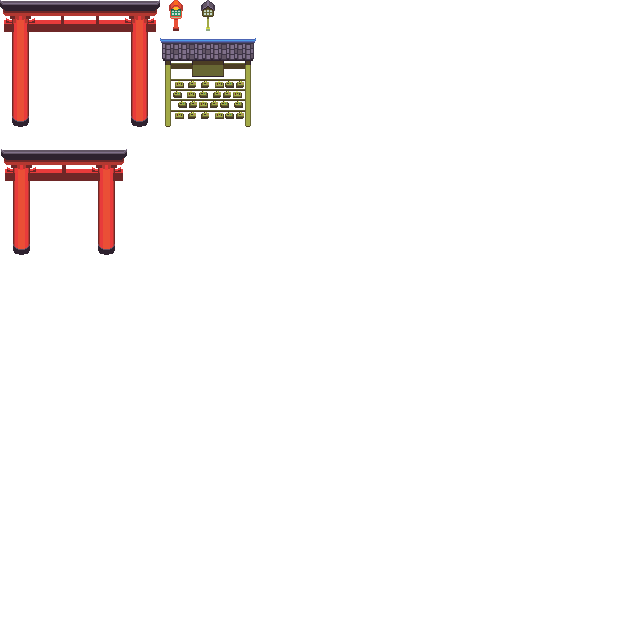
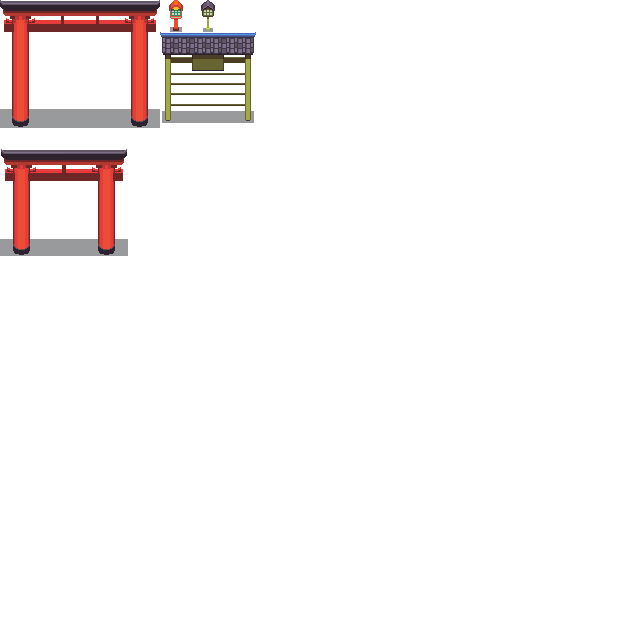
conditional spawn for charms and beehive

Changed region(s): [[0.0, 0.0312, 0.4062, 0.2188], [0.0, 0.375, 0.2188, 0.4062]]

diff --git a/lib/game/scenes/park_scene.dart b/lib/game/scenes/park_scene.dart
@@ -10,12 +10,14 @@ import 'package:gomiland/game/npcs/manuka.dart';
 import 'package:gomiland/game/npcs/mr_moon.dart';
 import 'package:gomiland/game/npcs/qian_bi.dart';
 import 'package:gomiland/game/npcs/utils.dart';
+import 'package:gomiland/game/objects/buildings/beehive.dart';
 import 'package:gomiland/game/objects/buildings/building_with_fade.dart';
 import 'package:gomiland/game/objects/buildings/fish_shop.dart';
 import 'package:gomiland/game/objects/buildings/shop_back_jap.dart';
 import 'package:gomiland/game/objects/buildings/shoukudou.dart';
 import 'package:gomiland/game/objects/buildings/tea_shop.dart';
 import 'package:gomiland/game/objects/buildings/temizuya.dart';
+import 'package:gomiland/game/objects/gate.dart';
 import 'package:gomiland/game/objects/lights/park_light.dart';
 import 'package:gomiland/game/objects/lights/stone_light.dart';
 import 'package:gomiland/game/objects/obsticle.dart';
@@ -24,7 +26,6 @@ import 'package:gomiland/game/objects/spawners/rubbish_spawner.dart';
 import 'package:gomiland/game/objects/trees/bamboo.dart';
 import 'package:gomiland/game/objects/trees/tree_with_fade.dart';
 import 'package:gomiland/game/player/player.dart';
-import 'package:gomiland/game/objects/gate.dart';
 import 'package:gomiland/game/scenes/scene_name.dart';
 import 'package:gomiland/game/scenes/utils.dart';
 
@@ -287,7 +288,9 @@ class ParkMap extends Component with HasGameReference<GomilandGame> {
             TreeWthFade(
               position: Vector2(tree.x, tree.y),
               size: Vector2(tree.width, tree.height),
-              spritePath: Assets.assets_images_trees_tree_sakura_png,
+              spritePath: game.gameStateBloc.state.daysInGame < 10
+                  ? Assets.assets_images_trees_tree_sakura_bare_png
+                  : Assets.assets_images_trees_tree_sakura_png,
               hitboxSize: Vector2(96, 64),
               hitboxPosition: Vector2.zero(),
             ),
@@ -300,7 +303,7 @@ class ParkMap extends Component with HasGameReference<GomilandGame> {
               size: Vector2(tree.width, tree.height),
               spritePath: Assets.assets_images_trees_tree_cone_png,
               hitboxSize: Vector2(96, 160),
-              hitboxPosition: Vector2.zero(),
+              hitboxPosition: Vector2(32, 32),
             ),
           );
           break;
@@ -311,7 +314,7 @@ class ParkMap extends Component with HasGameReference<GomilandGame> {
               size: Vector2(tree.width, tree.height),
               spritePath: Assets.assets_images_trees_tree_willow_png,
               hitboxSize: Vector2(96, 96),
-              hitboxPosition: Vector2.zero(),
+              hitboxPosition: Vector2(32, 0),
             ),
           );
           break;
@@ -321,8 +324,8 @@ class ParkMap extends Component with HasGameReference<GomilandGame> {
               position: Vector2(tree.x, tree.y),
               size: Vector2(tree.width, tree.height),
               spritePath: Assets.assets_images_trees_tree_orange_png,
-              hitboxSize: Vector2(160, 64),
-              hitboxPosition: Vector2.zero(),
+              hitboxSize: Vector2(160, 96),
+              hitboxPosition: Vector2(32, 32),
             ),
           );
           break;
@@ -410,6 +413,29 @@ class ParkMap extends Component with HasGameReference<GomilandGame> {
             SpriteComponent(
               sprite: await Sprite.load(
                   Assets.assets_images_buildings_tori_big_png),
+              position: Vector2(building.x, building.y),
+              size: Vector2(building.width, building.height),
+            ),
+          );
+          break;
+        case 'statue':
+          await add(
+            SpriteComponent(
+              sprite:
+                  await Sprite.load(Assets.assets_images_objects_samurai_png),
+              position: Vector2(building.x, building.y),
+              size: Vector2(building.width, building.height),
+            ),
+          );
+          break;
+        case 'charms':
+          await add(
+            SpriteComponent(
+              sprite: await Sprite.load(
+                game.progressStateBloc.state.qianBi >= 200
+                    ? Assets.assets_images_buildings_charms_png
+                    : Assets.assets_images_buildings_charms_bare_png,
+              ),
               position: Vector2(building.x, building.y),
               size: Vector2(building.width, building.height),
             ),
@@ -512,6 +538,25 @@ class ParkMap extends Component with HasGameReference<GomilandGame> {
               spritePath: Assets.assets_images_buildings_park_centre2_png,
             ),
           );
+          break;
+        case 'beehive':
+          if (game.progressStateBloc.state.manuka >= 200) {
+            await add(
+              Beehive(
+                position: Vector2(building.x, building.y),
+                size: Vector2(building.width, building.height),
+              ),
+            );
+          } else {
+            await add(
+              BuildingWithFade(
+                position: Vector2(building.x, building.y),
+                size: Vector2(building.width, building.height),
+                hitboxSize: Vector2(64, 32),
+                spritePath: Assets.assets_images_buildings_beehive_png,
+              ),
+            );
+          }
           break;
       }
     }

diff --git a/lib/assets.dart b/lib/assets.dart
@@ -1,7 +1,7 @@
 // GENERATED CODE - DO NOT MODIFY BY HAND
 
 // **************************************************************************
-// Total assets: 273.
+// Total assets: 275.
 // Generated by https://pub.dev/packages/assets_gen.
 // **************************************************************************
 
@@ -48,6 +48,9 @@ class Assets {
   static const String assets_images_buildings_apt_side_png = 'assets/images/buildings/apt_side.png';
   static const String gomiland$assets_images_buildings_apt_side_png = 'packages/gomiland/assets/images/buildings/apt_side.png';
 
+  static const String assets_images_buildings_beehive_png = 'assets/images/buildings/beehive.png';
+  static const String gomiland$assets_images_buildings_beehive_png = 'packages/gomiland/assets/images/buildings/beehive.png';
+
   static const String assets_images_buildings_cafe_png = 'assets/images/buildings/cafe.png';
   static const String gomiland$assets_images_buildings_cafe_png = 'packages/gomiland/assets/images/buildings/cafe.png';
 
@@ -56,6 +59,9 @@ class Assets {
 
   static const String assets_images_buildings_charms_png = 'assets/images/buildings/charms.png';
   static const String gomiland$assets_images_buildings_charms_png = 'packages/gomiland/assets/images/buildings/charms.png';
+
+  static const String assets_images_buildings_charms_bare_png = 'assets/images/buildings/charms_bare.png';
+  static const String gomiland$assets_images_buildings_charms_bare_png = 'packages/gomiland/assets/images/buildings/charms_bare.png';
 
   static const String assets_images_buildings_combini_png = 'assets/images/buildings/combini.png';
   static const String gomiland$assets_images_buildings_combini_png = 'packages/gomiland/assets/images/buildings/combini.png';

diff --git a/lib/game/objects/buildings/beehive.dart b/lib/game/objects/buildings/beehive.dart
@@ -16,10 +16,10 @@ class Beehive extends SpriteAnimationComponent with CollisionCallbacks {
   @override
   Future<void> onLoad() async {
     final image =
-    await Flame.images.load(Assets.assets_images_buildings_tea_shop_png);
+    await Flame.images.load(Assets.assets_images_spritesheets_beehive_png);
     final spriteSheet = SpriteSheet(
       image: image,
-      srcSize: Vector2(192, 192),
+      srcSize: Vector2(64, 64),
     );
     animation = SpriteAnimation.fromFrameData(
         spriteSheet.image,

diff --git a/lib/game/objects/buildings/tea_shop.dart b/lib/game/objects/buildings/tea_shop.dart
@@ -16,7 +16,7 @@ class TeaShop extends SpriteAnimationComponent with CollisionCallbacks {
   @override
   Future<void> onLoad() async {
     final image =
-    await Flame.images.load(Assets.assets_images_spritesheets_beehive_png);
+    await Flame.images.load(Assets.assets_images_buildings_tea_shop_png);
     final spriteSheet = SpriteSheet(
       image: image,
       srcSize: Vector2(192, 192),
